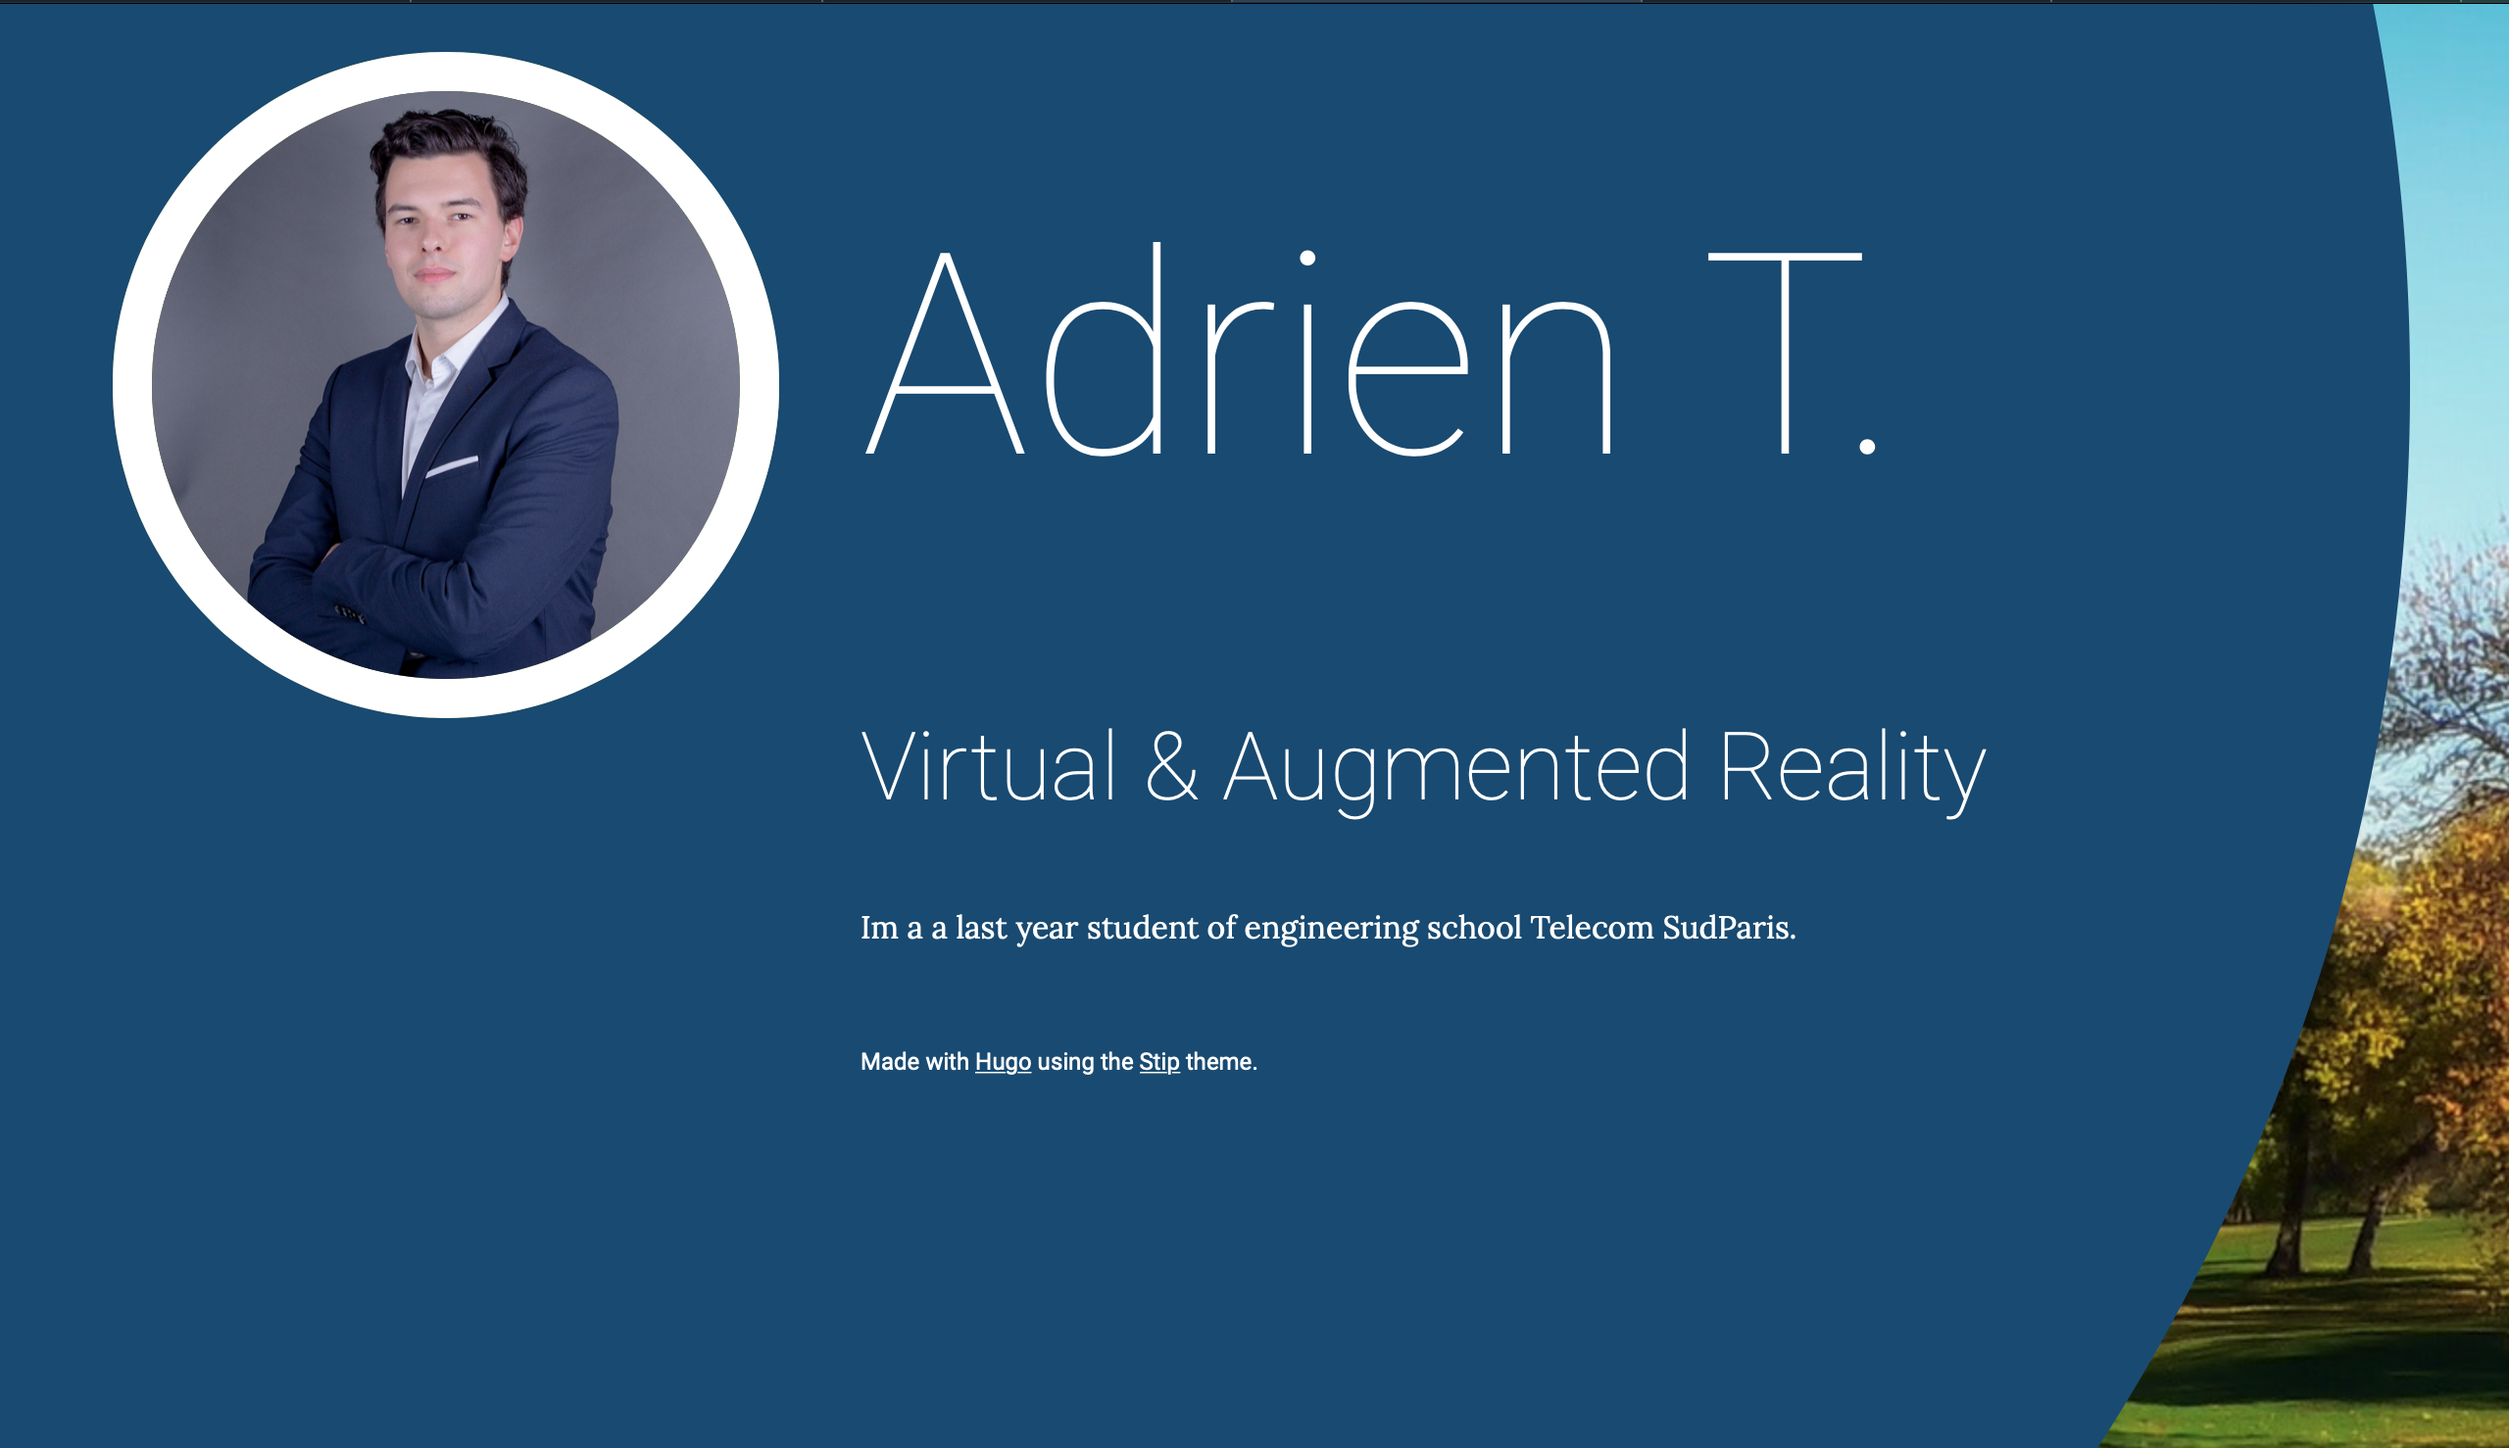
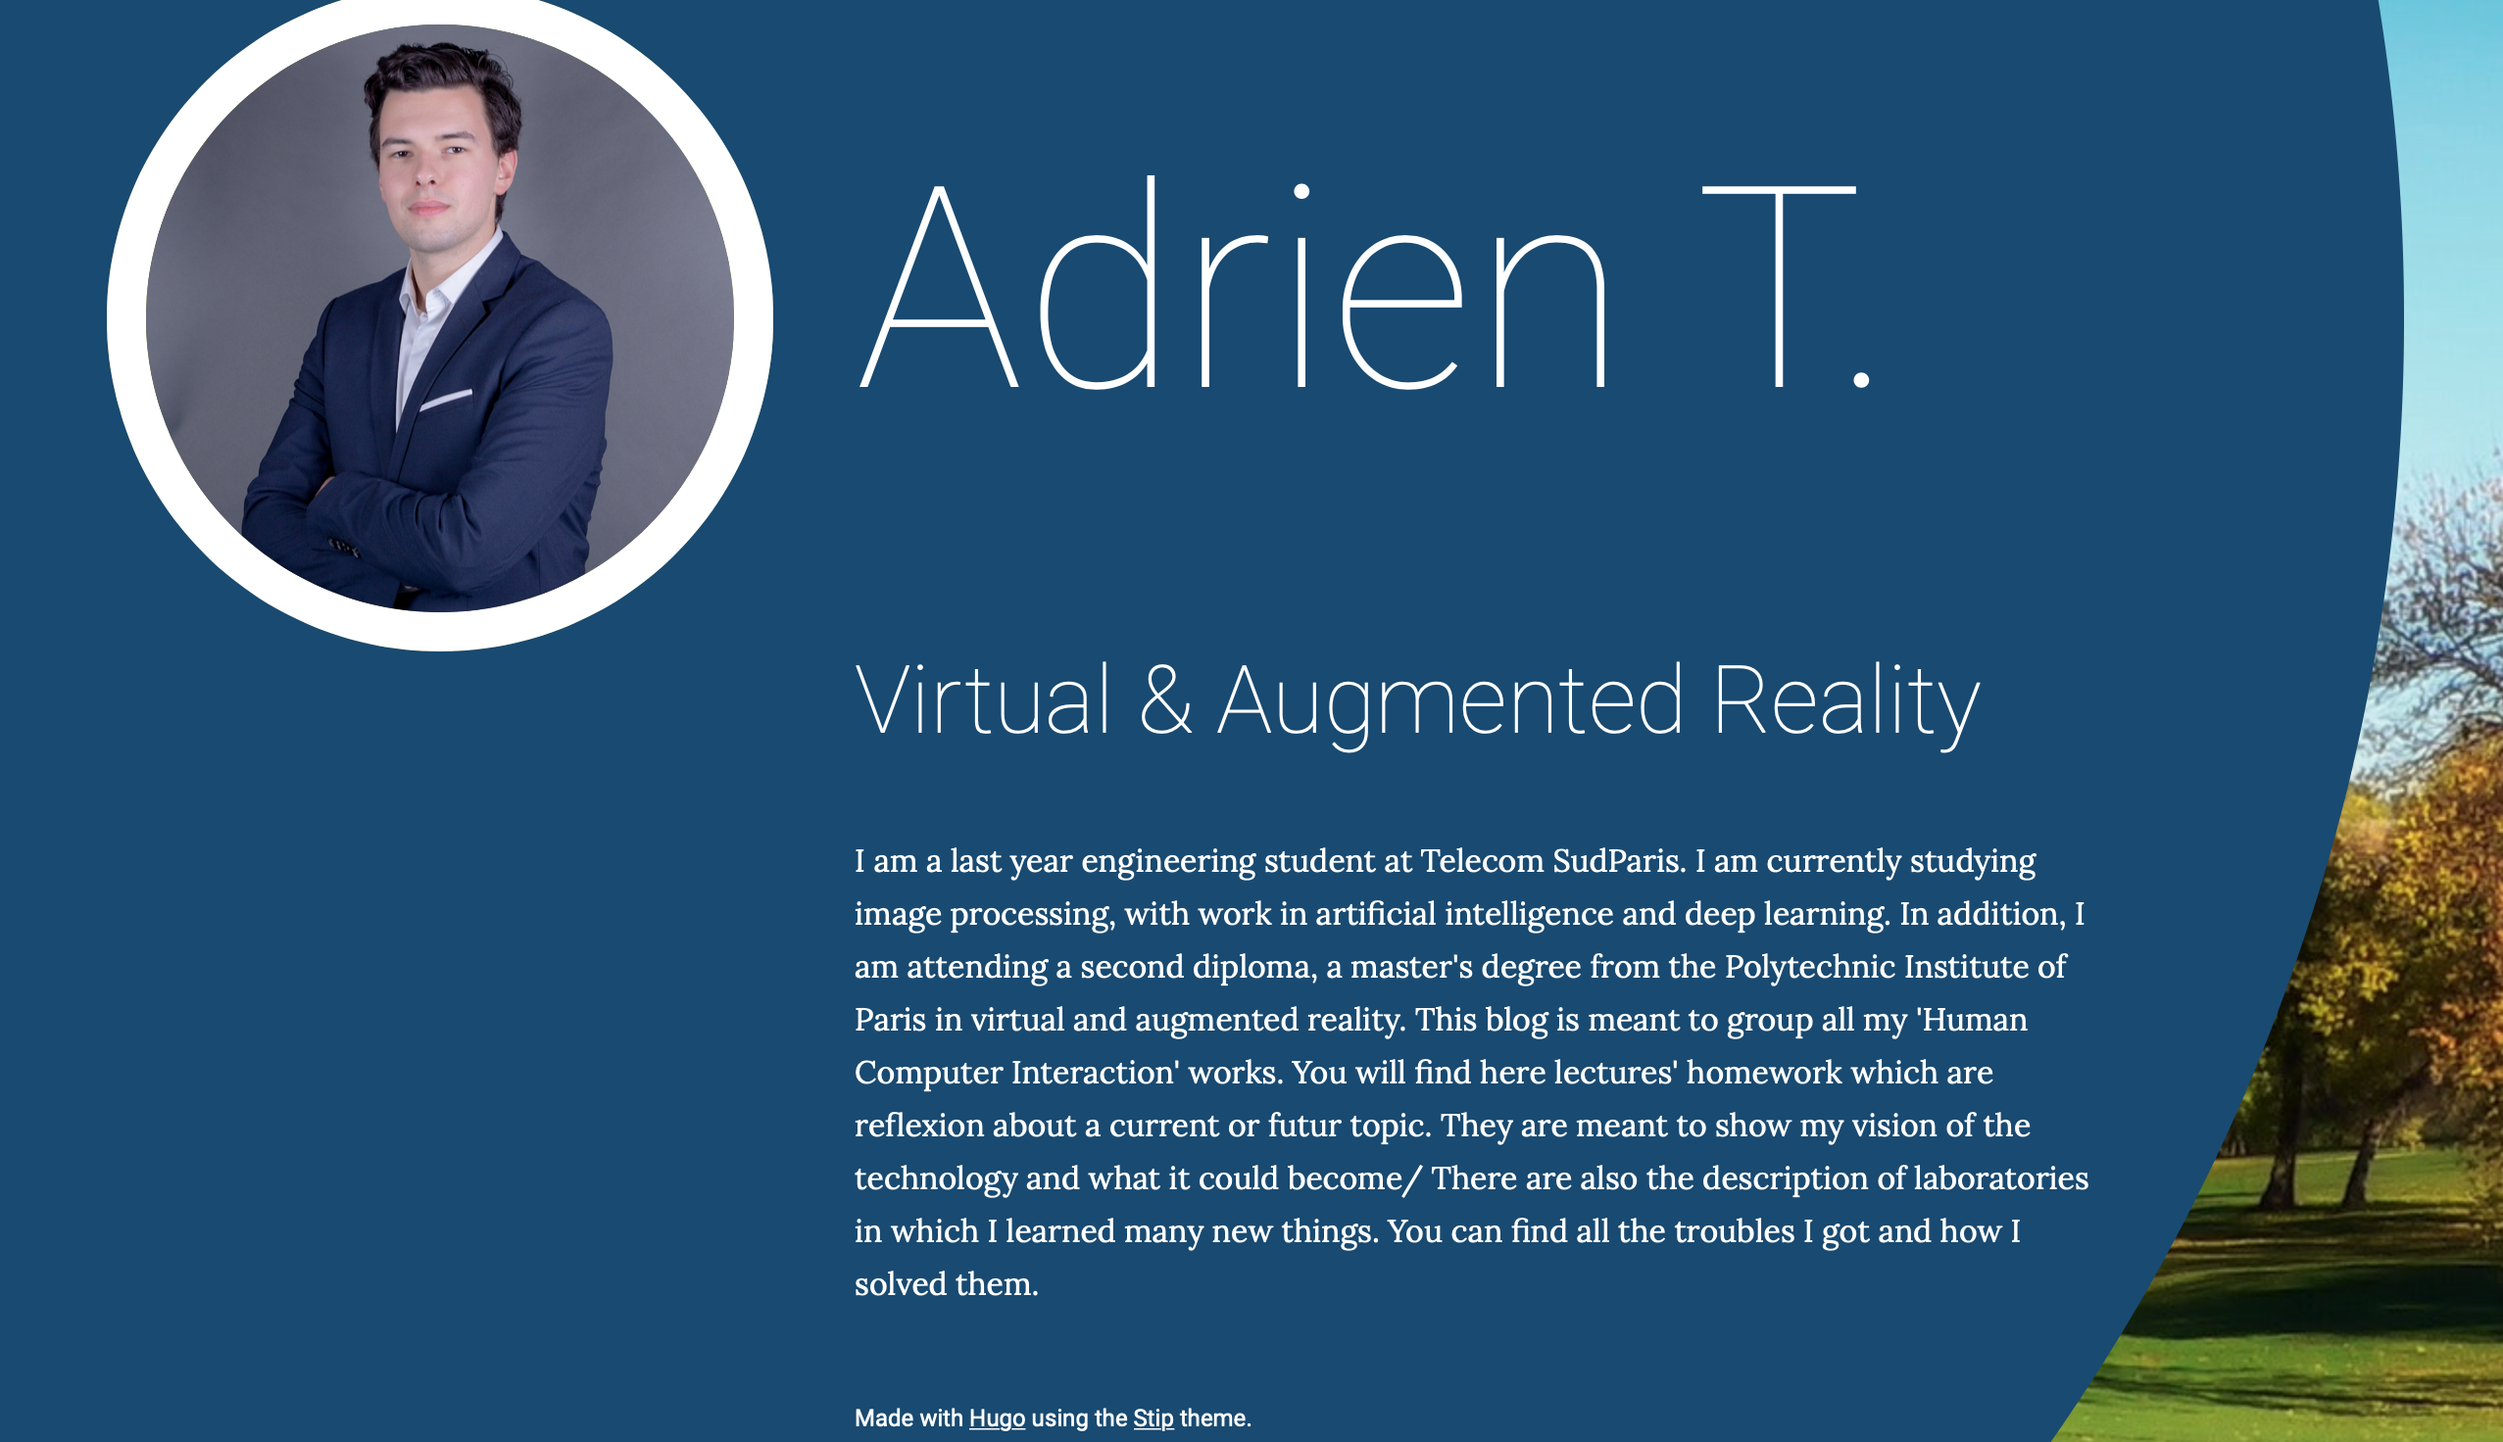
final modifications : presentation + last labs infromations

diff --git a/presentation/index.html b/presentation/index.html
@@ -1,0 +1,154 @@
+<!DOCTYPE HTML>
+<html>
+
+    <head>
+	<meta charset="utf-8" />
+	<meta http-equiv="X-UA-Compatible" content="IE=edge">
+	<meta name="viewport" content="width=device-width, initial-scale=1, user-scalable=no" />
+	<meta name="description" content="Your description">
+	<meta name="author" content="Your name">
+	<meta name="generator" content="Hugo 0.75.1" />
+	<title>Presentation &middot; UCI blog - T.A.</title>
+	<!-- Stylesheets -->
+	
+	<link rel="stylesheet" href="https://adrientriquet.github.io/css/main.css"/>
+	
+	
+
+	
+
+	<!-- Custom Fonts -->
+	<link href="https://adrientriquet.github.io/css/font-awesome.min.css" rel="stylesheet" type="text/css">
+
+	
+	<link rel="shortcut icon" type="image/x-icon" href="https://adrientriquet.github.io/favicon.ico">
+	<link rel="icon" type="image/x-icon" href="https://adrientriquet.github.io/favicon.ico">
+	
+
+	<!-- HTML5 Shim and Respond.js IE8 support of HTML5 elements and media queries -->
+	<!-- WARNING: Respond.js doesn't work if you view the page via file:// -->
+	<!--[if lt IE 9]>
+	<script src="js/ie/html5shiv.js"></script>
+	<script src="js/ie/html5shiv.jsrespond.min.js"></script>
+	<![endif]-->
+</head>
+
+    <body>
+
+    <!-- Wrapper -->
+        <div id="wrapper">
+
+            <!-- Header -->
+    <header id="header" class="alt">
+        <a href="https://adrientriquet.github.io/" class="logo"><strong>Triquet Adrien - VAR</strong> <span>UCI module</span></a>
+        <nav>
+            <a href="#menu">Menu</a>
+        </nav>
+    </header>
+
+<!-- Menu -->
+    <nav id="menu">
+        <ul class="links">
+            
+                <li><a href="https://adrientriquet.github.io/">Home</a></li>
+            
+                <li><a href="https://adrientriquet.github.io/lab_index">Labs</a></li>
+            
+                <li><a href="https://adrientriquet.github.io/lectures_index">Lectures</a></li>
+            
+                <li><a href="https://adrientriquet.github.io/elements.html"></a></li>
+            
+
+        </ul>
+        <ul class="actions vertical">
+            
+                <li><a href="https://adrientriquet.github.io/presentation" class="button special fit">Who am I ?</a></li>
+            
+            
+        </ul>
+    </nav>
+
+        <!-- Main -->
+            <div id="main" class="alt">
+
+                
+                    <section id="one">
+                        <div class="inner">
+                            <header class="major">
+                                <h1>Presentation</h1>
+                            </header>
+                            
+                            <ul>
+<li>
+<h2 id="welcome-here-i-am-adrien-triquet">Welcome here, I am Adrien Triquet.</h2>
+</li>
+</ul>
+<p>I am a last year engineering student at Telecom SudParis. I am currently studying image processing, with work in artificial intelligence and deep learning. In addition, I am attending a second diploma, a master&rsquo;s degree from the Polytechnic Institute of Paris in virtual and augmented reality.</p>
+<ul>
+<li>
+<h2 id="what-is-the-purpose-of-this-blog-">What is the purpose of this blog ?</h2>
+</li>
+</ul>
+<p>This blog is meant to group all my &lsquo;Human Computer Interaction&rsquo; works. You will find here lectures' homework which are reflexion about a current or futur topic. They are meant to show my vision of the technology and what it could become/ There are also the description of laboratories in which I learned many new things. You can find all the troubles I got and how I solved them.</p>
+<ul>
+<li>
+<h2 id="to-learn-more-about-me-here-is-my-cv">To learn more about me, here is my CV</h2>
+</li>
+</ul>
+<p>Yes, I am seeking an internship.</p>
+<p><img src="/images/cv.png" alt="GitHub Logo"></p>
+
+                        </div>
+                    </section>
+            <!-- Disqus Inject -->
+                
+            </div>
+            
+        <!-- Footer -->
+            
+                <!-- Footer -->
+    <footer id="footer">
+        <div class="inner">
+            <ul class="icons">
+                
+                    <li><a href="linkedin.com/in/adrien-triquet" class="icon alt fa-linkedin" target="_blank"><span class="label">LinkedIn</span></a></li>
+                
+                    <li><a href="https://github.com/AdrienTriquet" class="icon alt fa-github" target="_blank"><span class="label">GitHub</span></a></li>
+                
+                    <li><a href="https://www.facebook.com/atriquet1" class="icon alt fa-facebook" target="_blank"><span class="label">Facebook</span></a></li>
+                
+                    <li><a href="https://www.instagram.com/adrientriquet" class="icon alt fa-instagram" target="_blank"><span class="label">Instagram</span></a></li>
+                
+            </ul>
+            <ul class="copyright">
+                <li>&copy; Triquet Adrien</li>
+                
+                <li>Design:  <a href="https://www.html5up.net">HTML5 UP</a></li>
+                
+            </ul>
+        </div>
+    </footer>
+
+            
+        </div>
+
+    <!-- Scripts -->
+        <!-- Scripts -->
+    <!-- jQuery -->
+    <script src="https://adrientriquet.github.io/js/jquery.min.js"></script>
+    <script src="https://adrientriquet.github.io/js/jquery.scrolly.min.js"></script>
+    <script src="https://adrientriquet.github.io/js/jquery.scrollex.min.js"></script>
+    <script src="https://adrientriquet.github.io/js/skel.min.js"></script>
+    <script src="https://adrientriquet.github.io/js/util.js"></script>
+
+    
+
+    <!-- Main JS -->
+    <script src="https://adrientriquet.github.io/js/main.js"></script>
+
+    
+
+    
+
+    </body>
+</html>

diff --git a/2_lecture/index.html b/2_lecture/index.html
@@ -84,10 +84,8 @@ patterns and simplify complex images when we perceive objects. Designers use the
 websites and other interfaces so it is pleasing and easy to understand.
 (<a href="https://www.interaction-design.org/literature/topics/gestalt-principles">https://www.interaction-design.org/literature/topics/gestalt-principles</a>)</p>
 <p>Let&rsquo;s discover application of those laws that went wrong !</p>
-<h2 id="first">First</h2>
-<p>First</p>
 <h2 id="the-non-erasable-pen-">The non-erasable pen :</h2>
-<p>I want to take another example, non digital, but depicting the association the brain does easily.
+<p>I want to take an example, non digital, but depicting the association the brain does easily.
 Imagine a teacher arriving to his class.
 His white bord is clean but he doesn&rsquo;t have a pen. His students are already their waiting. He found
 one in his office. He sees that it is not the same brand and packaging as usual but he has to start !</p>
@@ -96,6 +94,15 @@ one in his office. He sees that it is not the same brand and packaging as usual 
 <p>I am pretty sure every student faced this situation when a teacher realises the pen can&rsquo;t be erased.
 Himself knew the risk, there is nothing new. However, the association has been made automatically in his head and the
 mistake is done !</p>
+<h2 id="a-second-one-">A second one :</h2>
+<p>I actually had much difficulty to find one more, because we actually face very few examples of this in our daily life.
+I will write about the following picture :</p>
+<p><img src="/images/gestalt.png" alt="GitHub Logo"></p>
+<p>First of all, the picture has style !</p>
+<p>Moreover, we clearly see the law of good figure. Here, dispite the white and dark different, we see clearly a man
+walking. Actually, the top and the bottom of the picture could have nothing to share, it would be the same in our
+perception. Our first look make us see a black man because our brain interpret what information he has and deduce the
+rest of it.</p>
 <h2 id="index">Index</h2>
 <h4 id="next-">Next :</h4>
 <p><a href="https://adrientriquet.github.io/3_lecture/" title="Third lecture">Third lecture</a></p>

diff --git a/fifth_lab/index.html b/fifth_lab/index.html
@@ -127,9 +127,14 @@ another occured :</p>
 
 <p>Here, my issue was that, even if it seemed to work, I could not move in the game of grab anything.
 The interaction system was still broken.</p>
+<h4 id="finally-">Finally !</h4>
+<p>Actually, we finally manage to interact with our game by changing a few lines and reseting our collider boxes.
+For instance, on RightTriggerAxis, the Axis Name was an issue we think !</p>
+<p><img src="/images/solution-Vr.jpeg" alt="GitHub Logo"></p>
 <h4 id="some-thoughts">Some thoughts</h4>
 <p>I was very surprise to have to follow 50 slides of requirements to use such as widespread product as occulus.
-It seems there are many ways of doing it, more or less complicated, but I still think some all ready tool is needed.</p>
+It seems there are many ways of doing it, more or less complicated, but I still think an all ready tool is needed to
+really become user-friendly.</p>
 <h2 id="index">Index</h2>
 <h4 id="nothing-left-to-see-">Nothing left to see :'(</h4>
 <h4 id="list-">List :</h4>

diff --git a/first_lab/index.html b/first_lab/index.html
@@ -99,6 +99,9 @@ now. I made this choice to keep and easy utilisation without getting out of the 
 <p>Stip seems perfect to introduce myself with professional graphic. I want at the end to link it to my main page.
 Doing myself photography, it won&rsquo;t be difficult to use a picture of mind, without right issues, to use as a background.</p>
 <p><img src="/images/stip.png" alt="GitHub Logo"></p>
+<p>However, things are I never succeeded in finding a way to implement two different themes in Hugo. To this purpose, I
+used direcly the html files once they are created but the framework is too complex in the way it works. <strong>It was still
+interesting to see more how things works inside Hugo !</strong></p>
 <h2 id="forty">Forty</h2>
 <p>Finally, forty is a perfect, complex and beautiful theme to present all my different works.
 The module is made of 3 weeks in 2 parts (lab and lecture). The theme enables to depict information about this clearly.</p>
